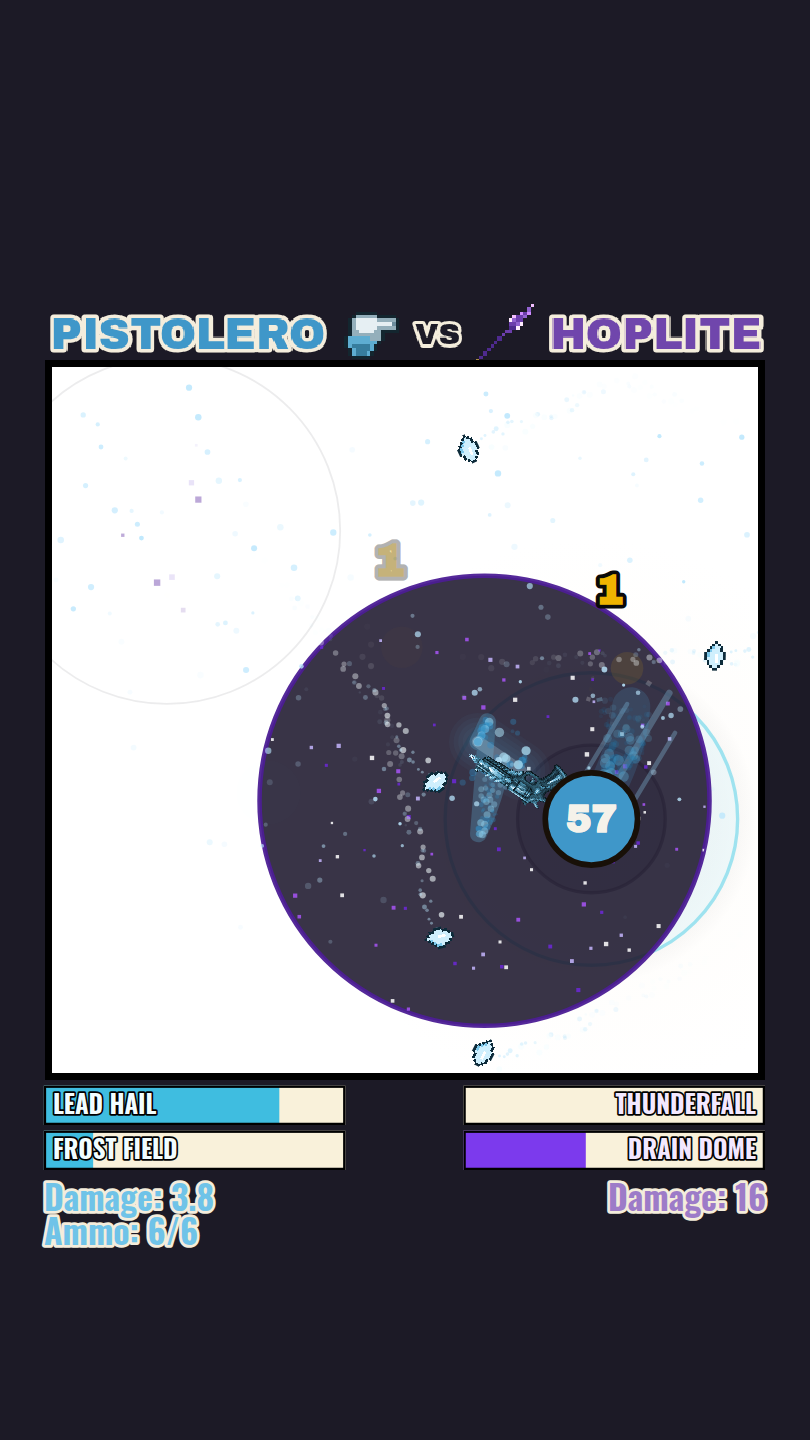
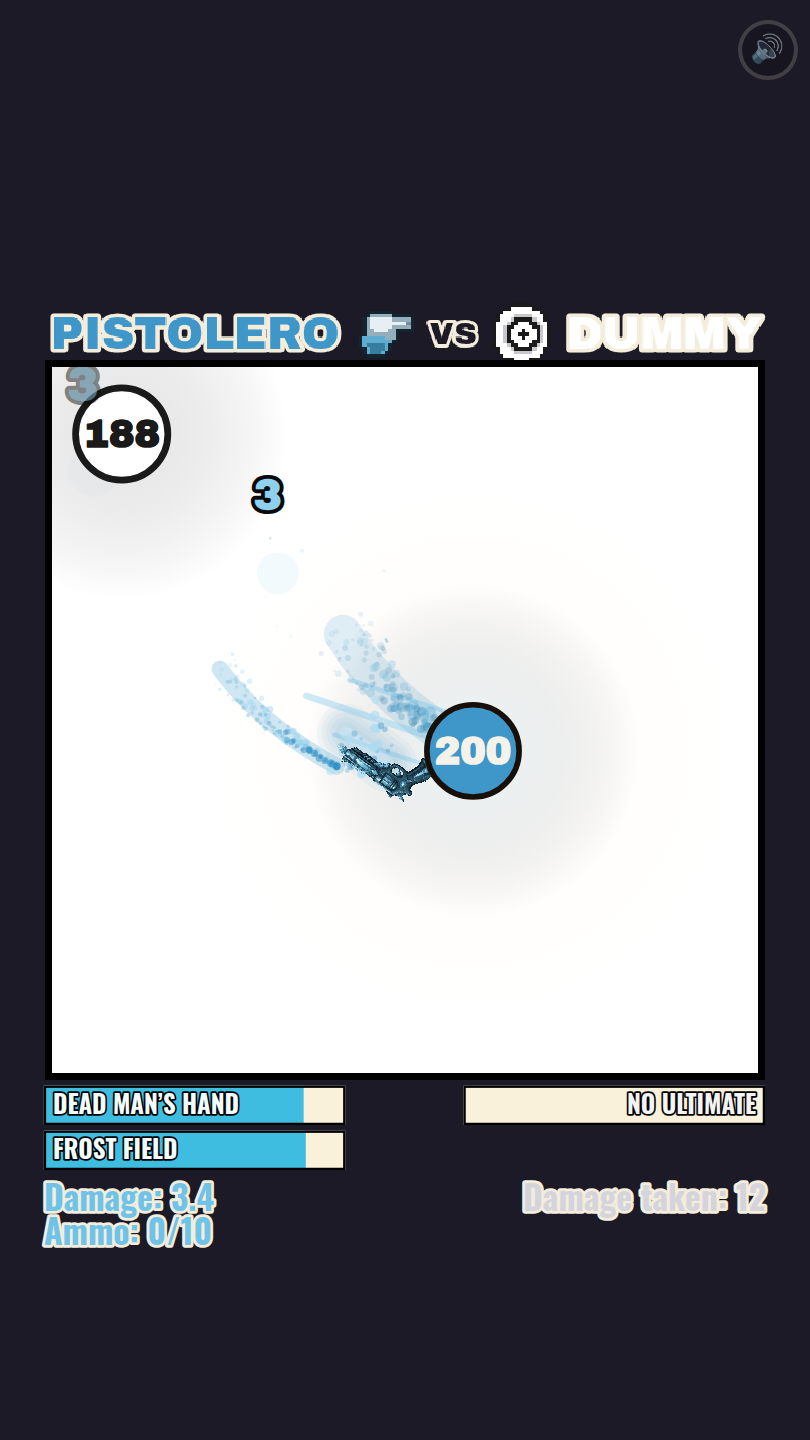
Pistolero : renomme l'ultime LEAD HAIL en DEAD MAN'S HAND
Demandé. « Pluie de plomb » (LEAD HAIL) devient « Main du mort »
(DEAD MAN'S HAND) : la main de cartes tristement célèbre de Wild Bill
Hickok (as et huit), un classique du folklore du gunslinger — le thème du
Pistolero.

Fiche (src/data/fighters/outlaw.js) : name/nameRef/barLabel/barLabelFr mis à
jour, avec un commentaire de provenance sur l'écart au relevé. Le
commentaire de mage.js qui citait l'ancien nom pour situer un chiffre de
recul (988 px/s) suit.

Docs : README (tableau du roster, arborescence, exemples de style anglais,
tableau des mesures), docs/FICHES.md (ligne « Ultime » du Pistolero avec
la mention « anciennement », table des couleurs de jauge reprises) et
docs/PIEGES.md (piège sur l'arène non teintée) mis à jour. Les mentions
purement narratives ou de provenance vidéo restent en `LEAD HAIL`, même
traitement que les mentions de « Dragoon » après le renommage en Hoplite.

Capture de contrôle régénérée (docs/capture-horsloi.png) : elle affichait
l'ancien libellé en dur dans les pixels.

Pur changement de libellé : aucune valeur numérique touchée, matrice,
fiche-check, lang-check et sound-check inchangés.

Claude-Session: https://claude.ai/code/session_01Qq7UwkSQNKCFC8eP56ocmN

diff --git a/src/data/fighters/outlaw.js b/src/data/fighters/outlaw.js
@@ -306,10 +306,13 @@ export const OUTLAW = fiche({
 
   ultimate: {
     id: 'highNoon',
-    name: 'Pluie de plomb',
-    nameRef: 'LEAD HAIL',
-    barLabel: 'LEAD HAIL',
-    barLabelFr: 'PLUIE DE PLOMB',
+    /** Renommé sur demande (« Pluie de plomb » / `LEAD HAIL`) : la main de
+     *  cartes tristement célèbre de Wild Bill Hickok (as et huit), un classique
+     *  du folklore du gunslinger — le thème du Pistolero. */
+    name: 'Main du mort',
+    nameRef: 'DEAD MAN’S HAND',
+    barLabel: 'DEAD MAN’S HAND',
+    barLabelFr: 'MAIN DU MORT',
     /** **Écart assumé, demandé.** Reprend exactement la couleur de la jauge
      *  de Blizzard juste en dessous (`special.barFill`/`barText`) : les deux
      *  jauges d'un même combattant doivent se lire comme une paire — taille,

diff --git a/src/data/fighters/mage.js b/src/data/fighters/mage.js
@@ -316,7 +316,7 @@ export const MAGE = fiche({
      * *plus près* de qui venait le punir.
      *
      * 420 : au-dessus du recul de tir du Pistolero (119) et sous celui de sa
-     * Pluie de plomb (988). Calé au banc — voir la matrice.
+     * Main du mort (988). Calé au banc — voir la matrice.
      */
     recoil: 420,
     /**

diff --git a/README.md b/README.md
@@ -13,7 +13,7 @@ calé**, et leurs fiches ne portent pas un seul `mesuré`.
 
 | Personnage | Arme | Signature | Ultime |
 | --- | --- | --- | --- |
-| **Pistolero** | Pacificateur | **canon asservi à la cible** — il ne tourne pas ; barillet de **10** et **un tir toutes les 0,3 s** (six balles et 0,6 s mesurés, tous deux changés sur demande), balles qui gèlent, et **un tour du pistolet sur lui-même** au rechargement | Pluie de plomb / LEAD HAIL (cadence doublée, recul ×8) |
+| **Pistolero** | Pacificateur | **canon asservi à la cible** — il ne tourne pas ; barillet de **10** et **un tir toutes les 0,3 s** (six balles et 0,6 s mesurés, tous deux changés sur demande), balles qui gèlent, et **un tour du pistolet sur lui-même** au rechargement | Main du mort / DEAD MAN’S HAND (cadence doublée, recul ×8) |
 | **Ronin** | Lame de braise (transcrite d'une maquette) | rotation qui monte de 0,80 à 3,00 tour/s puis **surchauffe** ; `Damage = 2 × Spin` | Ruée de lame / BLADE RUSH (verrou de touche à 115 ms, éventail vert grand ouvert) |
 | **Hoplite** | Lance d'orage (**164 px, la plus longue portée du jeu**) — **elle suit son cap de déplacement**, elle ne vise pas | **charge** en ligne droite à 2,6 × sa vitesse, pointe en avant, en semant des images fantômes ; dégâts qui montent de **+2 par touche portée** | Foudre tombante / THUNDERFALL — il **quitte l'arène** 1,5 s, un marqueur suit sa cible, puis il retombe dessus |
 | **Shinobi** | Shuriken d'ombre — **la bille *est* l'arme**, sprite centré dessus | hitbox en **disque** de 75 px tout autour, le seul du roster ; palette sombre | Tornade de shurikens / SHURIKEN TORNADO |
@@ -76,7 +76,7 @@ voir [`docs/FICHES.md`](docs/FICHES.md).
 
 <sup>Les nouveaux formats : [un 2 contre 2](docs/capture-2v2.png) (les camps groupés dans le titre et dans le HUD) · [une bataille royale à cinq](docs/capture-royale.png) · [la parade à deux vainqueurs](docs/capture-fin-2v2.png).</sup>
 
-<sup>L’Hoplite (charge, Dôme de drain) contre le Ronin (surchauffe, Aura de braise). Voir aussi [l'écran de sélection](docs/capture-selection.png), [le Pistolero sous LEAD HAIL](docs/capture-horsloi.png), [la ruée du Ronin](docs/capture-bretteur.png), [la Foudre tombante de l’Hoplite](docs/capture-lancer.png), [sa charge de lance](docs/capture-lancer-charge.png) et [l'écran de fin avec l'export Short](docs/capture-fin.png).</sup>
+<sup>L’Hoplite (charge, Dôme de drain) contre le Ronin (surchauffe, Aura de braise). Voir aussi [l'écran de sélection](docs/capture-selection.png), [le Pistolero sous DEAD MAN’S HAND](docs/capture-horsloi.png), [la ruée du Ronin](docs/capture-bretteur.png), [la Foudre tombante de l’Hoplite](docs/capture-lancer.png), [sa charge de lance](docs/capture-lancer-charge.png) et [l'écran de fin avec l'export Short](docs/capture-fin.png).</sup>
 
 ---
 
@@ -237,7 +237,7 @@ src/
 │   ├── projectiles.js     projectiles génériques pilotés par la fiche
 │   └── abilities/
 │       ├── index.js       registre
-│       ├── outlaw.js      Visée asservie + Barillet + Pluie de plomb + Champ de givre
+│       ├── outlaw.js      Visée asservie + Barillet + Main du mort + Champ de givre
 │       ├── bladesman.js   Courbe de rotation (surchauffe) + Ruée + Rage
 │       ├── lancer.js      Charge + Foudre tombante + Dôme de drain
 │       ├── wind.js        Tornade de shurikens + Clone d'ombre
@@ -305,7 +305,7 @@ identique sur un écran 60 Hz ou 144 Hz, et les collisions arme/corps ne
 ## Langue
 
 **L'application est en anglais** — c'est la langue de la vidéo de référence
-(`DARK`, `LEAD HAIL`, `Damage: 5.50`), donc celle du HUD et du titre d'arène
+(`DARK`, `BLADE RUSH`, `Damage: 5.50`), donc celle du HUD et du titre d'arène
 depuis toujours ; les écrans de sélection et de fin ont suivi. `?lang=fr`
 bascule l'ensemble, chrome DOM compris.
 
@@ -346,10 +346,10 @@ convertit en **×1,25** vers ce repère 720 × 1280 — **sauf celle de Magia,
 | Boule Pistolero / Ronin  | `#8a5934` / mesurée `#dcc462` ; le jeu met le Ronin en **orange `#e8621b`**, avec sa lame de braise (écart assumé, voir `docs/FICHES.md`) |
 | Portée d'arme                 | revolver 122 px, sabre/lame 152 px |
 | Rotation du sabre             | 0,80 → 3,00 tour/s, palier de 1,8 s au plafond, effondrement à −3,0/s |
-| Recul du revolver             | 119 px/s, **988 px/s sous LEAD HAIL** |
+| Recul du revolver             | 119 px/s, **988 px/s sous DEAD MAN’S HAND** |
 | Progression « Damage » (Pistolero) | 3,00 → 5,50 par pas de 0,10, **au coup au but** |
 | « Damage » du Ronin        | `2,00 × Spin Speed`, exact, jamais stocké |
-| LEAD HAIL                     | horloge de 7,0 s, effet 6,2 s, cadence doublée |
+| DEAD MAN’S HAND                | horloge de 7,0 s, effet 6,2 s, cadence doublée |
 | BLADE RUSH                    | horloge de 9 s + 6 % par coup, ruée de 1,5 s, verrou à 115 ms |
 | Précision du Pistolero      | 25 coups au but en 38,6 s = **0,65 coup/s** |
 | Boule Hoplite                 | mesurée `#574a84` indigo ; le jeu la met en **violet `#7046ac`**, la teinte de la lance électrique — donc tout près du relevé. Traînée cramoisie `#a32b4a` conservée |

diff --git a/docs/FICHES.md b/docs/FICHES.md
@@ -959,7 +959,7 @@ citée entre parenthèses.
 | **Barillet** | 6 coups, ~0,6 s entre deux (≈ 18 images à 30 fps), puis un rechargement de 1,4 s — le trou observé entre `0/6` et `6/6` | mesuré + calé |
 | **Recul** | 119 px/s par coup (95), **988 px/s (790) sous LEAD HAIL**. C'est lui qui produit le pic de 1 380 px/s relevé à l'image 1011 : chaque coup de la rafale le propulse violemment | mesuré |
 | **Dispersion** | ±0,75 rad. **Déduite d'une mesure** : la vidéo montre 25 paliers de +0,10 en 38,6 s pour ~50 tirs, soit une balle sur deux et **0,65 coup/s**. Sans dispersion, une visée réécrite à chaque image touche toujours — le banc donnait 1,30 coup/s, exactement le double | déduit |
-| Ultime | *Pluie de plomb* (`LEAD HAIL`) — horloge **pure** de 7,0 s (charge de 1,13 px/image sur 238 px utiles), effet 6,2 s (vidage à 1,28 px/image) : cadence doublée, +22 % de vitesse, recul ×8,3 | mesuré |
+| Ultime | *Main du mort* (`DEAD MAN’S HAND`, anciennement *Pluie de plomb* / `LEAD HAIL`, renommé sur demande) — horloge **pure** de 7,0 s (charge de 1,13 px/image sur 238 px utiles), effet 6,2 s (vidage à 1,28 px/image) : cadence doublée, +22 % de vitesse, recul ×8,3 | mesuré |
 | Rendu de l'ultime | la vidéo fait virer **toute l'arène** au crème `#FDF7ED`. Ici le décor ne bouge jamais : la lumière se pose **au sol, sous le pistolero** | écart assumé |
 | Projectile | *Balle* — `outlawShot` 9 × 3 ×3,2, 720 px/s, dégâts = la pile courante. Sillage **pâle** de 2 px, (213,182,153) à (236,206,177) : les cinq taches alignées de l'image 224 sont ce sillage en tirets, pas cinq projectiles | mesuré + calé |
 | HUD | `Damage: 3.00 → 5.50` (+0,10 **au coup au but**, pas au coup tiré) et `Ammo: n/6` | mesuré |
@@ -1301,7 +1301,7 @@ dessous.
 
 | Combattant | Jauge d'ultime | Couleur reprise de |
 | --- | --- | --- |
-| Pistolero | LEAD HAIL : `#3f97c9` → `#3fbde0` / texte `#fdf7ed` → `#f2fdff` | Champ de givre |
+| Pistolero | DEAD MAN’S HAND : `#3f97c9` → `#3fbde0` / texte `#fdf7ed` → `#f2fdff` | Champ de givre |
 | Ronin | BLADE RUSH : `#f97316` → `#ea580c` / texte `#2a0e05` → `#fff1f0` | Aura de braise |
 | Hoplite | BOND : `#5d3d8e` → `#7c3aed` / texte `#ffffff` → `#f3e8ff` | Dôme de drain |
 

diff --git a/docs/PIEGES.md b/docs/PIEGES.md
@@ -113,9 +113,10 @@ dans `docs/FICHES.md`. Ce qui suit vaut pour tout le dépôt.
   0,16 s (13 px tient). Et la largeur des passes d'aura calculée en `1/k` mettait
   la passe **la plus large en dernier**, donc le cœur opaque délavait l'arme au
   lieu de la cerner.
-- **LEAD HAIL ne teinte pas l'arène.** Sur sa vidéo, l'arène entière vire au
-  crème pendant l'ultime du Pistolero. Ici le décor est rasterisé une fois et
-  **ne bouge jamais** (invariant 4) : la lumière se pose donc au sol.
+- **L'ultime du Pistolero (`DEAD MAN’S HAND`, anciennement `LEAD HAIL`) ne
+  teinte pas l'arène.** Sur sa vidéo, l'arène entière vire au crème pendant cet
+  ultime. Ici le décor est rasterisé une fois et **ne bouge jamais**
+  (invariant 4) : la lumière se pose donc au sol.
 - Filigrane `@ElementalArmoryLeague` non reproduit — ni le « ballthing.com » /
   « @ballthingsim » des vidéos des trois invités.
 
